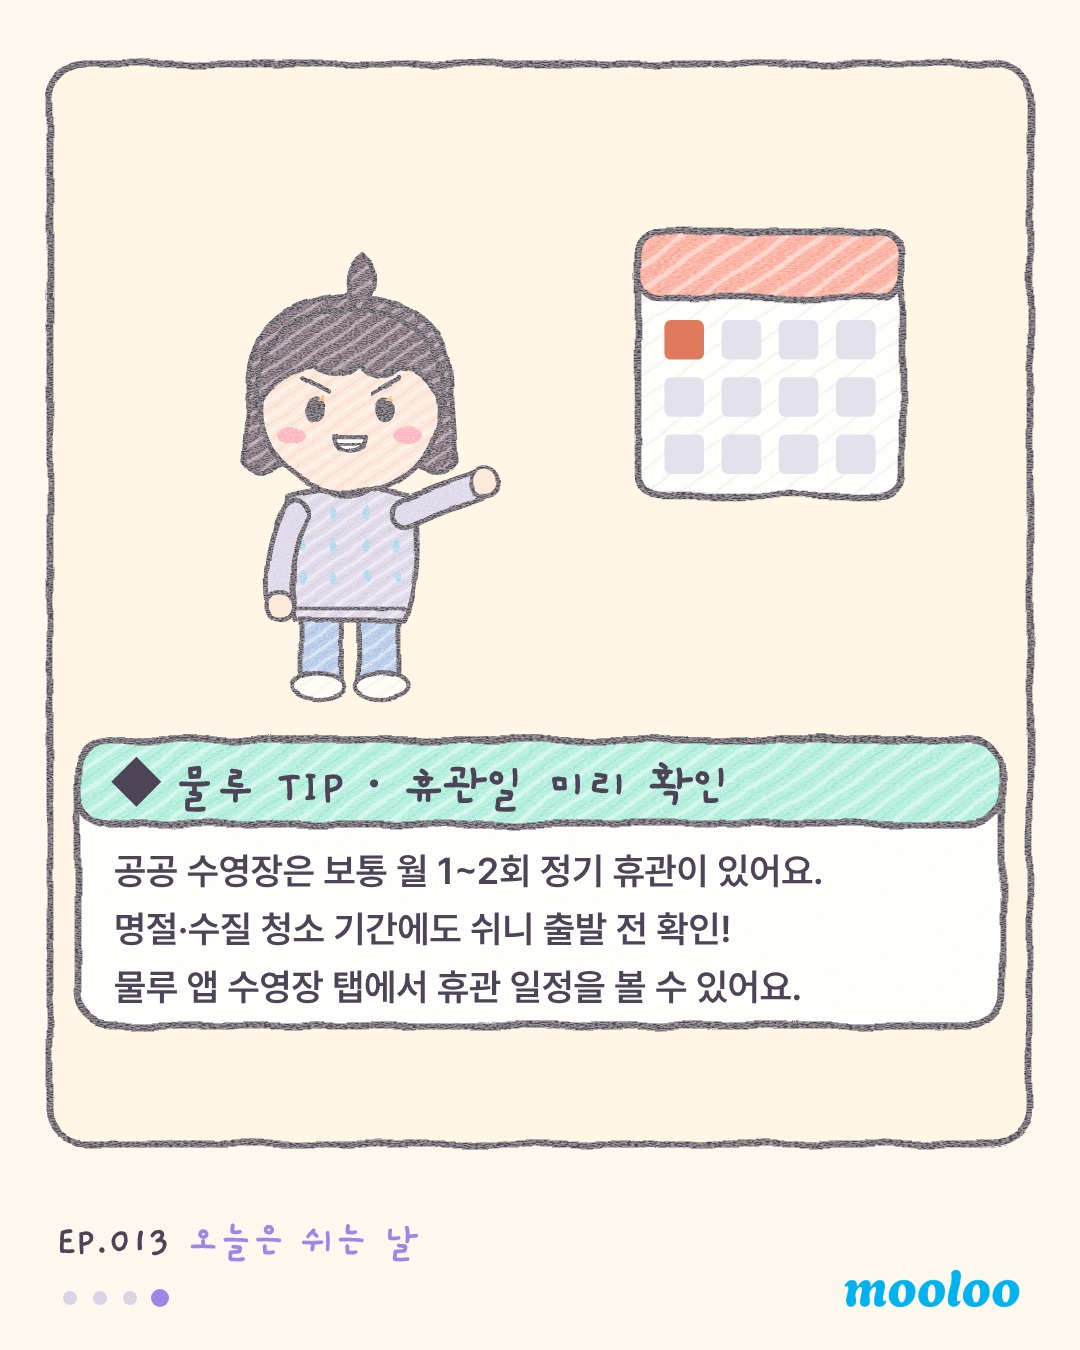
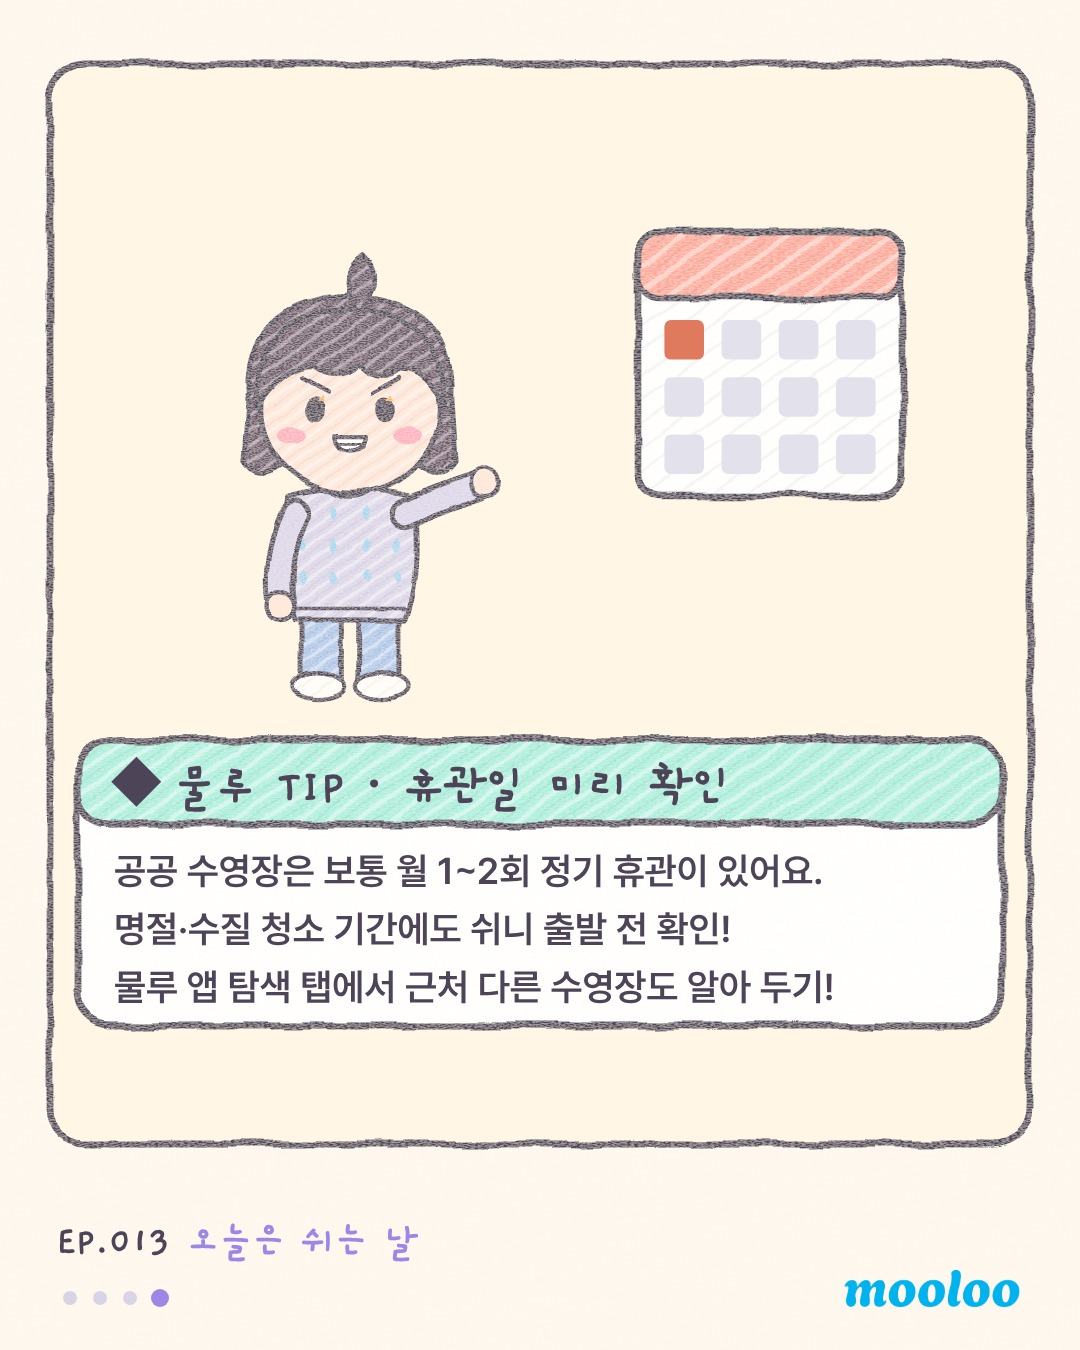
없는 앱 기능 안내 정정 (EP009·013·028·029)
실제 앱에 없는 기능(자유수영 시간표·휴관 일정·혼잡도·성장 그래프)을 안내하던 TIP 문구를
있는 기능(탐색 탭, 기록 비교) 또는 일반 팁으로 교체. 주간 지시서는 기능 목록을 비공개 지시문에서 참고.

Claude-Session: https://claude.ai/code/session_01LVFseoaLkcVrU8y6tQhm5B

Changed region(s): [[0.2139, 0.7156, 0.7944, 0.7467]]

diff --git a/render/episodes_c.js b/render/episodes_c.js
@@ -44,7 +44,7 @@ module.exports = [
       pool(240) + crowdHeads(230, [60, 160, 330, 430], .4) + headInWater('mulu', { x: 245, y: 230, s: .6, cap: true, gog: 'eyes', expr: 'flat' }) + waterFront(265, .85) +
       sfx(120, 380, '앞사람 발…', { size: 30, rot: -4, color: '#8A8098' }) + sfx(370, 430, '뒷사람 손…', { size: 30, rot: 4, color: '#8A8098' }) + caption('수영인지 줄서기인지'),
       pool(190) + headInWater('mulu', { x: 245, y: 168, s: .64, cap: true, gog: 'head', expr: 'smile' }) + waterFront(210, .85, 330) + sparkle(110, 90, 12) +
-      tipBox(320, '물루 TIP · 붐비는 시간 피하기', '퇴근 직후(저녁 7~8시)는 대부분 수영장이 가장 붐벼요.\n조금 늦은 시간이나 주말 오후를 노려 보기.\n물루 앱에서 시간대별 혼잡도를 미리 확인!'),
+      tipBox(320, '물루 TIP · 붐비는 시간 피하기', '퇴근 직후(저녁 7~8시)는 대부분 수영장이 가장 붐벼요.\n조금 늦은 시간이나 주말 오후를 노려 보기.\n붐빌 땐 원 돌기·벽에서 비켜 주기로 다 같이 편하게!'),
     ] },
 
   // ════ EP.029 윤슬 vs 물루 50m 대결
@@ -59,7 +59,7 @@ module.exports = [
       pool(260) + headInWater('mulu', { x: 150, y: 236, s: .68, cap: true, gog: 'head', expr: 'proud' }) + headInWater('yoonseul', { x: 360, y: 240, s: .62, cap: true, capStyle: 'trend', gog: 'head', expr: 'happy' }) + waterFront(282, .85) +
       phoneTimer(380, 400, 1.1, '00:52') + bubble(20, 66, 220, 70, '52초! 신기록!', { tail: 'bl', size: 30 }) + bubble(260, 120, 210, 70, '난 사진 신기록♪', { tail: 'br', size: 24 }),
       bg('#F4FAF3') + phoneTimer(245, 170, 1.6, '00:52') + sparkle(120, 90, 14) + sparkle(380, 100, 12) +
-      tipBox(338, '물루 TIP · 기록은 남겨야 보여요', '그날그날 거리·시간을 적어 두면\n조금씩 빨라지는 게 눈에 보여요.\n물루 앱에 기록하고 내 성장 그래프 확인하기!'),
+      tipBox(338, '물루 TIP · 기록은 남겨야 보여요', '그날그날 거리·시간을 적어 두면\n조금씩 빨라지는 게 눈에 보여요.\n물루 앱에 기록하면 지난번과 비교해 줘요!'),
     ] },
 
   // ════ EP.030 아빠의 생일 선물

diff --git a/render/episodes_a.js b/render/episodes_a.js
@@ -26,7 +26,7 @@ const EPS = [
       bg('#F4F1FB') + poolDoor() + person('mulu', { x: 245, y: 290, s: .86, outfit: 'casual', arms: 'down', expr: 'cry', prop: `<g filter="url(#pencil)">${PROPS.swimBag(-70, 120, .5)}</g>` }) + sfx(90, 490, '털썩', { size: 40, rot: -8, color: '#8A8098' }) +
       bubble(260, 440, 210, 70, '정기 휴관…?', { tail: 'none', size: 32 }),
       bg('#FFF6E6') + calendar(360, 150, 1.1) + person('mulu', { x: 150, y: 170, s: .72, outfit: 'casual', arms: 'point', expr: 'determined' }) +
-      tipBox(338, '물루 TIP · 휴관일 미리 확인', '공공 수영장은 보통 월 1~2회 정기 휴관이 있어요.\n명절·수질 청소 기간에도 쉬니 출발 전 확인!\n물루 앱 수영장 탭에서 휴관 일정을 볼 수 있어요.'),
+      tipBox(338, '물루 TIP · 휴관일 미리 확인', '공공 수영장은 보통 월 1~2회 정기 휴관이 있어요.\n명절·수질 청소 기간에도 쉬니 출발 전 확인!\n물루 앱 탐색 탭에서 근처 다른 수영장도 알아 두기!'),
     ] },
 
   // ════ EP.014 귀에 물

diff --git a/agent/WEEKLY_PROMPT.md b/agent/WEEKLY_PROMPT.md
@@ -16,10 +16,10 @@
 
 ## 2-1. 물루 앱 사용 에피소드 (하루 1편, 2026-10-27 결정)
 - 하루 3편 중 **1편은 김물루가 물루 앱을 쓰는 이야기**로 만든다 (21편 중 7편). 날마다 위치(왼·가운데·오른쪽)는 섞는다.
-- **`agent/app_features.md`에 '운영 중'으로 적힌 기능만** 그린다. 출시 전·플래그로 숨긴 기능은 그리지 않는다. 화면 이름·탭 이름·버튼 문구는 그 파일의 실제 문구 그대로 쓴다.
+- **예약 작업 지시문의 「앱 기능 목록」에 있는 기능만** 그린다. 출시 전·플래그로 숨긴 기능은 그리지 않는다. 화면 이름·탭 이름·버튼 문구는 그 목록의 실제 문구 그대로 쓴다.
 - 이야기의 중심은 일상이고 앱은 그 일상을 해결해 주는 도구로 한두 컷 등장한다 (광고처럼 보이지 않게). 앱 화면은 실제 UI를 단순화한 색연필 그림(Purple #7E53FF · Mint #00CFBE 포인트).
 - 마지막 컷 '💧 물루 TIP'은 사용법 한 줄: "물루 앱 ○○ 탭 → ○○". 캡션 TIP 문단도 같은 내용으로.
-- 같은 기능을 2주 안에 반복하지 않는다. 쓴 기능은 `agent/app_features.md`의 '최근 사용' 칸에 EP 번호를 적는다.
+- 같은 기능을 2주 안에 반복하지 않는다. 쓴 기능과 EP 번호는 `agent/app_usage_log.md`에 한 줄씩 적어 둔다 (중복 확인용).
 
 ## 3. 제작
 - 새 파일 `render/episodes_wNN.js`(module.exports = 배열)를 만들고 `render/all.js`의 파일 목록에 추가.

diff --git a/agent/app_usage_log.md b/agent/app_usage_log.md
@@ -1,0 +1,4 @@
+# 앱 사용 에피소드 기록
+
+| EP | 기능 |
+|---|---|
